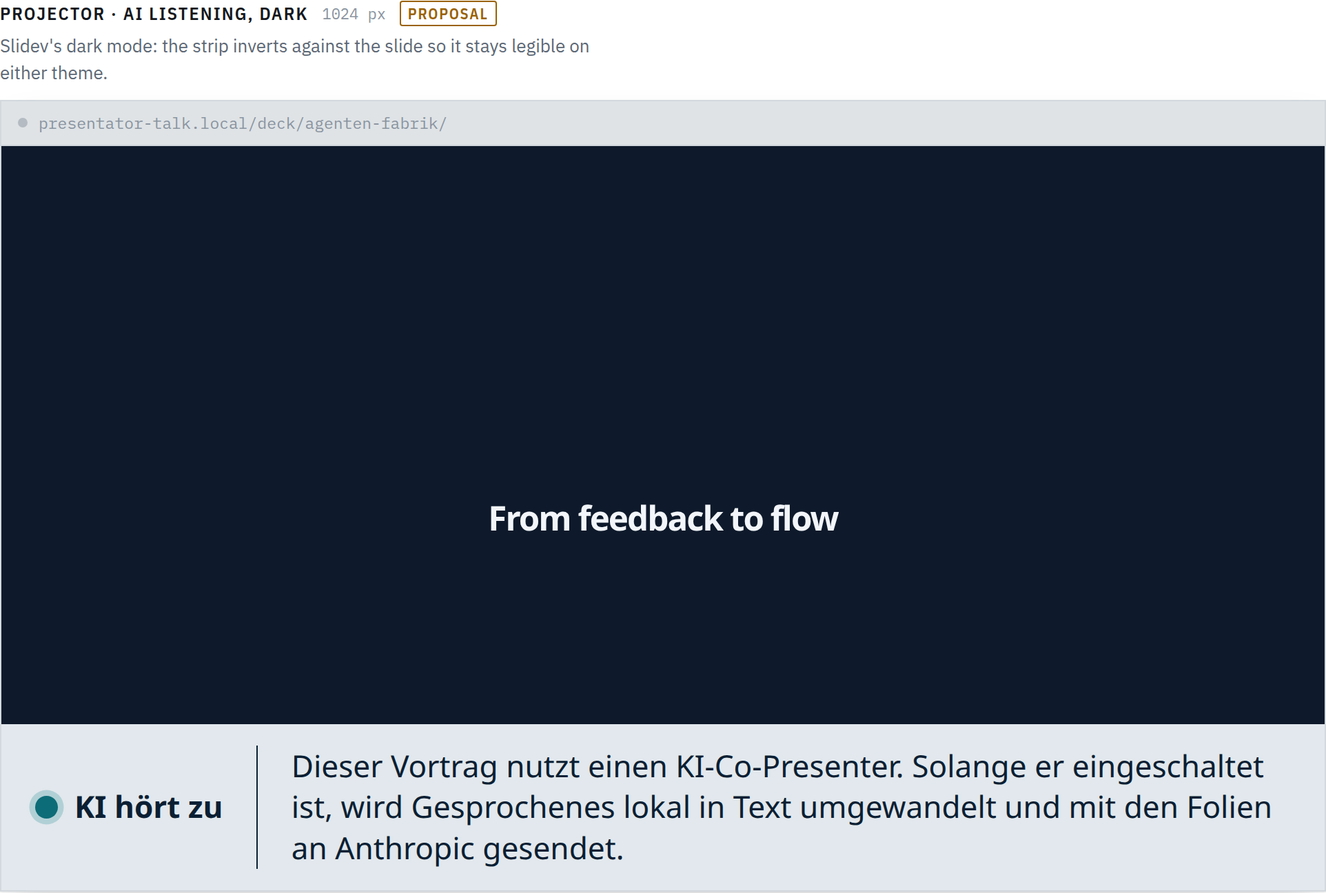
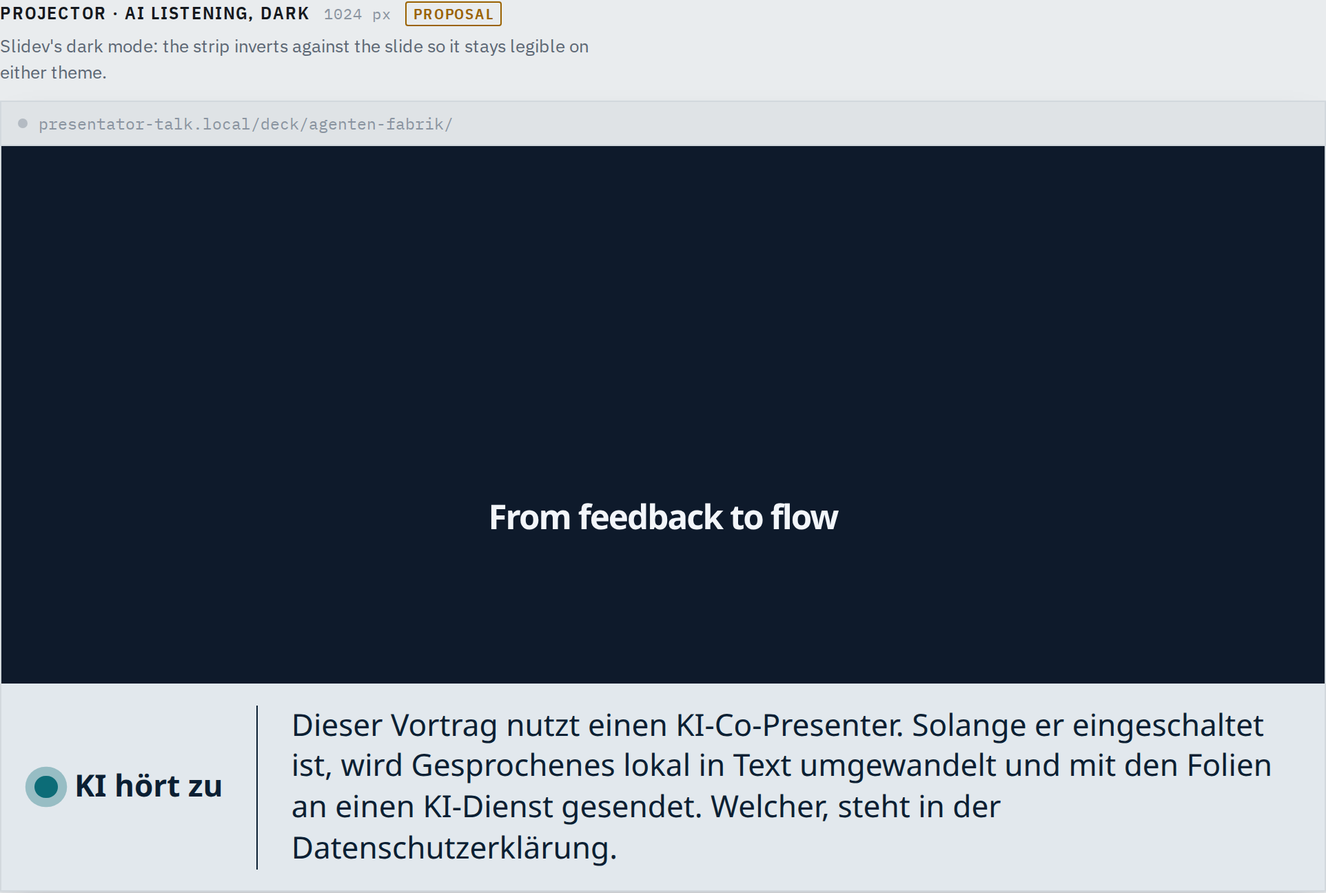
Bring the room-knows boards in line with the #293 rulings
The operator ruled #293 on 28.10.2026 (line 1 C, lines 2-5 A). Every
room-facing sentence is now the neutral E8 wording with its pointer to
the Datenschutzerklärung, the presenter's first answer begins at once,
the banner-then-pill comparison board and its CSS are gone, and one
English-deck board shows the strip in the deck's language. Captions
name the ruled option. Renders and the overview sheet are regenerated.

Serves #525.

diff --git a/docs/mockups/m0-lobby.html b/docs/mockups/m0-lobby.html
@@ -1583,9 +1583,6 @@
   .room-strip--mini { padding: 3px 6px; gap: 5px; font-size: 5px; }
   .room-strip--mini .room-strip__text { padding-left: 5px; }
   .room-strip--mini-narrow { font-size: 5.5px; }
-  .room-strip--banner { inset: 0 0 auto; flex-direction: column; align-items: flex-start; gap: .4em; padding: .9em 1.1em; font-size: 2.5cqw; }
-  .room-strip--banner .room-strip__text { padding-left: 0; border-left: 0; }
-  .room-pill { position: absolute; right: 8px; bottom: 8px; display: inline-flex; align-items: center; gap: .5em; padding: .35em .8em; border-radius: 99px; background: #0B1F33F0; color: #fff; font-size: var(--room-font); font-weight: 700; }
   .room-chart { position: absolute; inset: 30% 12% 12%; display: flex; flex-direction: column; justify-content: flex-end; gap: 6px; }
   .room-chart__bars { display: flex; flex: 1; align-items: flex-end; gap: 6%; border-bottom: 2px solid currentColor; }
   .room-chart__bars span { flex: 1; background: #3C7FB8; }
@@ -4260,11 +4257,22 @@ Cannot resolve import "./folien/03-fabric.md" from slides.md
       <figure class="board" id="room-listening">
         <figcaption class="board-cap">
           <div class="board-title">Projector · AI listening <span class="w">1024 px</span> <span class="open-mark">proposal</span></div>
-          <p class="board-note">A slim strip at the bottom of the slide: a pulsing dot (the only thing that moves) and E8's sentence word for word. The strip is a notice, not a control.</p>
+          <p class="board-note">Line 2: the deck's language (German deck). A slim strip at the bottom of the slide: a pulsing dot (the only thing that moves) and E8's sentence word for word, ending in the pointer to the Datenschutzerklärung. The strip is a notice, not a control.</p>
         </figcaption>
         <div class="frame" style="--w: 960px">
           <div class="route">presentator-talk.local/deck/agenten-fabrik/</div>
-          <div class="room-slide room-slide--light"><div class="room-slide__title">From feedback to flow</div><div class="room-strip "><span class="room-strip__state"><span class="room-strip__dot"></span>KI hört zu</span><span class="room-strip__text">Dieser Vortrag nutzt einen KI-Co-Presenter. Solange er eingeschaltet ist, wird Gesprochenes lokal in Text umgewandelt und mit den Folien an Anthropic gesendet.</span></div></div>
+          <div class="room-slide room-slide--light"><div class="room-slide__title">From feedback to flow</div><div class="room-strip "><span class="room-strip__state"><span class="room-strip__dot"></span>KI hört zu</span><span class="room-strip__text">Dieser Vortrag nutzt einen KI-Co-Presenter. Solange er eingeschaltet ist, wird Gesprochenes lokal in Text umgewandelt und mit den Folien an einen KI-Dienst gesendet. Welcher, steht in der Datenschutzerklärung.</span></div></div>
+        </div>
+      </figure>
+
+      <figure class="board" id="room-listening-english">
+        <figcaption class="board-cap">
+          <div class="board-title">Projector · English deck, AI listening <span class="w">1024 px</span> <span class="open-mark">proposal</span></div>
+          <p class="board-note">Line 2: the deck's language (English deck). The strip and its sentence follow the language of the deck, not the language of the app.</p>
+        </figcaption>
+        <div class="frame" style="--w: 960px">
+          <div class="route">presentator-talk.local/deck/agenten-fabrik/</div>
+          <div class="room-slide room-slide--light"><div class="room-slide__title">From feedback to flow</div><div class="room-strip "><span class="room-strip__state"><span class="room-strip__dot"></span>AI is listening</span><span class="room-strip__text">This talk uses an AI co-presenter. While it is on, speech is turned into text locally and sent with the slides to an AI service. Which one is named in the privacy notice.</span></div></div>
         </div>
       </figure>
 
@@ -4275,7 +4283,7 @@ Cannot resolve import "./folien/03-fabric.md" from slides.md
         </figcaption>
         <div class="frame" style="--w: 960px">
           <div class="route">presentator-talk.local/deck/agenten-fabrik/</div>
-          <div class="room-slide room-slide--light"><div class="room-slide__title">From feedback to flow</div><div class="room-strip "><span class="room-strip__state"><svg class="room-strip__glyph" viewBox="0 0 24 24" aria-hidden="true"><path d="M11 5 6 9H2v6h4l5 4V5Z"/><path d="M15.54 8.46a5 5 0 0 1 0 7.07"/><path d="M19.07 4.93a10 10 0 0 1 0 14.14"/></svg>KI antwortet</span><span class="room-strip__text">Dieser Vortrag nutzt einen KI-Co-Presenter. Solange er eingeschaltet ist, wird Gesprochenes lokal in Text umgewandelt und mit den Folien an Anthropic gesendet.</span></div></div>
+          <div class="room-slide room-slide--light"><div class="room-slide__title">From feedback to flow</div><div class="room-strip "><span class="room-strip__state"><svg class="room-strip__glyph" viewBox="0 0 24 24" aria-hidden="true"><path d="M11 5 6 9H2v6h4l5 4V5Z"/><path d="M15.54 8.46a5 5 0 0 1 0 7.07"/><path d="M19.07 4.93a10 10 0 0 1 0 14.14"/></svg>KI antwortet</span><span class="room-strip__text">Dieser Vortrag nutzt einen KI-Co-Presenter. Solange er eingeschaltet ist, wird Gesprochenes lokal in Text umgewandelt und mit den Folien an einen KI-Dienst gesendet. Welcher, steht in der Datenschutzerklärung.</span></div></div>
         </div>
       </figure>
 
@@ -4293,22 +4301,11 @@ Cannot resolve import "./folien/03-fabric.md" from slides.md
       <figure class="board" id="room-busy">
         <figcaption class="board-cap">
           <div class="board-title">Projector · busy bottom edge <span class="w">1024 px</span> <span class="open-mark">proposal</span></div>
-          <p class="board-note">A slide with a footer and a chart axis at the bottom, the strip over them: the strip covers the axis and the footer while the AI is on. The operator judges whether that cost is acceptable.</p>
+          <p class="board-note">A slide with a footer and a chart axis at the bottom, the strip over them: the strip covers the axis and the footer while the AI is on. Line 4: this cover is accepted.</p>
         </figcaption>
         <div class="frame" style="--w: 960px">
           <div class="route">presentator-talk.local/deck/agenten-fabrik/</div>
-          <div class="room-slide room-slide--light room-slide--busy"><div class="room-slide__title">From feedback to flow</div><div class="room-chart"><div class="room-chart__bars"><span style="height:38%"></span><span style="height:55%"></span><span style="height:72%"></span><span style="height:46%"></span></div><div class="room-chart__axis"><span>Q1</span><span>Q2</span><span>Q3</span><span>Q4</span></div></div><div class="room-footer"><span>Agenten-Fabrik</span><span>4 / 18</span></div><div class="room-strip "><span class="room-strip__state"><span class="room-strip__dot"></span>KI hört zu</span><span class="room-strip__text">Dieser Vortrag nutzt einen KI-Co-Presenter. Solange er eingeschaltet ist, wird Gesprochenes lokal in Text umgewandelt und mit den Folien an Anthropic gesendet.</span></div></div>
-        </div>
-      </figure>
-
-      <figure class="board" id="room-alt-banner-pill">
-        <figcaption class="board-cap">
-          <div class="board-title">Projector · alternative <span class="w">1024 px</span> <span class="open-mark">proposal</span></div>
-          <p class="board-note">For comparison with the strip (the alternative to line 4): left, a banner with the sentence until the first answer; right, a compact pill in the corner after it. The pill keeps the room's screen freer; the sentence is on screen only once.</p>
-        </figcaption>
-        <div class="frame" style="--w: 960px">
-          <div class="route">presentator-talk.local/deck/agenten-fabrik/</div>
-          <div class="room-pair"><div class="room-slide room-slide--light" style="--room-font: 9.5px"><div class="room-slide__title">From feedback to flow</div><div class="room-strip room-strip--banner"><span class="room-strip__state"><span class="room-strip__dot"></span>KI hört zu</span><span class="room-strip__text">Dieser Vortrag nutzt einen KI-Co-Presenter. Solange er eingeschaltet ist, wird Gesprochenes lokal in Text umgewandelt und mit den Folien an Anthropic gesendet.</span></div></div><div class="room-slide room-slide--light room-slide--busy" style="--room-font: 9.5px"><div class="room-slide__title">From feedback to flow</div><div class="room-chart"><div class="room-chart__bars"><span style="height:38%"></span><span style="height:55%"></span><span style="height:72%"></span><span style="height:46%"></span></div><div class="room-chart__axis"><span>Q1</span><span>Q2</span><span>Q3</span><span>Q4</span></div></div><div class="room-footer"><span>Agenten-Fabrik</span><span>4 / 18</span></div><div class="room-pill"><span class="room-strip__dot"></span>KI hört zu</div></div></div>
+          <div class="room-slide room-slide--light room-slide--busy"><div class="room-slide__title">From feedback to flow</div><div class="room-chart"><div class="room-chart__bars"><span style="height:38%"></span><span style="height:55%"></span><span style="height:72%"></span><span style="height:46%"></span></div><div class="room-chart__axis"><span>Q1</span><span>Q2</span><span>Q3</span><span>Q4</span></div></div><div class="room-footer"><span>Agenten-Fabrik</span><span>4 / 18</span></div><div class="room-strip "><span class="room-strip__state"><span class="room-strip__dot"></span>KI hört zu</span><span class="room-strip__text">Dieser Vortrag nutzt einen KI-Co-Presenter. Solange er eingeschaltet ist, wird Gesprochenes lokal in Text umgewandelt und mit den Folien an einen KI-Dienst gesendet. Welcher, steht in der Datenschutzerklärung.</span></div></div>
         </div>
       </figure>
 
@@ -4319,7 +4316,7 @@ Cannot resolve import "./folien/03-fabric.md" from slides.md
         </figcaption>
         <div class="frame" style="--w: 960px">
           <div class="route">presentator-talk.local/deck/agenten-fabrik/</div>
-          <div class="room-zoom"><div class="room-slide room-slide--light" style="--room-font: 25px"><div class="room-slide__title">From feedback to flow</div><div class="room-strip "><span class="room-strip__state"><span class="room-strip__dot"></span>KI hört zu</span><span class="room-strip__text">Dieser Vortrag nutzt einen KI-Co-Presenter. Solange er eingeschaltet ist, wird Gesprochenes lokal in Text umgewandelt und mit den Folien an Anthropic gesendet.</span></div></div></div>
+          <div class="room-zoom"><div class="room-slide room-slide--light" style="--room-font: 25px"><div class="room-slide__title">From feedback to flow</div><div class="room-strip "><span class="room-strip__state"><span class="room-strip__dot"></span>KI hört zu</span><span class="room-strip__text">Dieser Vortrag nutzt einen KI-Co-Presenter. Solange er eingeschaltet ist, wird Gesprochenes lokal in Text umgewandelt und mit den Folien an einen KI-Dienst gesendet. Welcher, steht in der Datenschutzerklärung.</span></div></div></div>
         </div>
       </figure>
 
@@ -4330,7 +4327,7 @@ Cannot resolve import "./folien/03-fabric.md" from slides.md
         </figcaption>
         <div class="frame" style="--w: 960px">
           <div class="route">presentator-talk.local/deck/agenten-fabrik/</div>
-          <div class="room-zoom"><div class="room-slide room-slide--light" style="--room-font: 25px"><div class="room-slide__title">From feedback to flow</div><div class="room-strip "><span class="room-strip__state"><svg class="room-strip__glyph" viewBox="0 0 24 24" aria-hidden="true"><path d="M11 5 6 9H2v6h4l5 4V5Z"/><path d="M15.54 8.46a5 5 0 0 1 0 7.07"/><path d="M19.07 4.93a10 10 0 0 1 0 14.14"/></svg>KI antwortet</span><span class="room-strip__text">Dieser Vortrag nutzt einen KI-Co-Presenter. Solange er eingeschaltet ist, wird Gesprochenes lokal in Text umgewandelt und mit den Folien an Anthropic gesendet.</span></div></div></div>
+          <div class="room-zoom"><div class="room-slide room-slide--light" style="--room-font: 25px"><div class="room-slide__title">From feedback to flow</div><div class="room-strip "><span class="room-strip__state"><svg class="room-strip__glyph" viewBox="0 0 24 24" aria-hidden="true"><path d="M11 5 6 9H2v6h4l5 4V5Z"/><path d="M15.54 8.46a5 5 0 0 1 0 7.07"/><path d="M19.07 4.93a10 10 0 0 1 0 14.14"/></svg>KI antwortet</span><span class="room-strip__text">Dieser Vortrag nutzt einen KI-Co-Presenter. Solange er eingeschaltet ist, wird Gesprochenes lokal in Text umgewandelt und mit den Folien an einen KI-Dienst gesendet. Welcher, steht in der Datenschutzerklärung.</span></div></div></div>
         </div>
       </figure>
 
@@ -4341,7 +4338,7 @@ Cannot resolve import "./folien/03-fabric.md" from slides.md
         </figcaption>
         <div class="frame" style="--w: 960px">
           <div class="route">presentator-talk.local/deck/agenten-fabrik/</div>
-          <div class="room-slide room-slide--dark"><div class="room-slide__title">From feedback to flow</div><div class="room-strip "><span class="room-strip__state"><span class="room-strip__dot"></span>KI hört zu</span><span class="room-strip__text">Dieser Vortrag nutzt einen KI-Co-Presenter. Solange er eingeschaltet ist, wird Gesprochenes lokal in Text umgewandelt und mit den Folien an Anthropic gesendet.</span></div></div>
+          <div class="room-slide room-slide--dark"><div class="room-slide__title">From feedback to flow</div><div class="room-strip "><span class="room-strip__state"><span class="room-strip__dot"></span>KI hört zu</span><span class="room-strip__text">Dieser Vortrag nutzt einen KI-Co-Presenter. Solange er eingeschaltet ist, wird Gesprochenes lokal in Text umgewandelt und mit den Folien an einen KI-Dienst gesendet. Welcher, steht in der Datenschutzerklärung.</span></div></div>
         </div>
       </figure>
 
@@ -4352,7 +4349,7 @@ Cannot resolve import "./folien/03-fabric.md" from slides.md
         </figcaption>
         <div class="frame" style="--w: 960px">
           <div class="route">presentator-talk.local/deck/agenten-fabrik/</div>
-          <div class="room-slide room-slide--dark"><div class="room-slide__title">From feedback to flow</div><div class="room-strip "><span class="room-strip__state"><svg class="room-strip__glyph" viewBox="0 0 24 24" aria-hidden="true"><path d="M11 5 6 9H2v6h4l5 4V5Z"/><path d="M15.54 8.46a5 5 0 0 1 0 7.07"/><path d="M19.07 4.93a10 10 0 0 1 0 14.14"/></svg>KI antwortet</span><span class="room-strip__text">Dieser Vortrag nutzt einen KI-Co-Presenter. Solange er eingeschaltet ist, wird Gesprochenes lokal in Text umgewandelt und mit den Folien an Anthropic gesendet.</span></div></div>
+          <div class="room-slide room-slide--dark"><div class="room-slide__title">From feedback to flow</div><div class="room-strip "><span class="room-strip__state"><svg class="room-strip__glyph" viewBox="0 0 24 24" aria-hidden="true"><path d="M11 5 6 9H2v6h4l5 4V5Z"/><path d="M15.54 8.46a5 5 0 0 1 0 7.07"/><path d="M19.07 4.93a10 10 0 0 1 0 14.14"/></svg>KI antwortet</span><span class="room-strip__text">Dieser Vortrag nutzt einen KI-Co-Presenter. Solange er eingeschaltet ist, wird Gesprochenes lokal in Text umgewandelt und mit den Folien an einen KI-Dienst gesendet. Welcher, steht in der Datenschutzerklärung.</span></div></div>
         </div>
       </figure>
 
@@ -4365,7 +4362,7 @@ Cannot resolve import "./folien/03-fabric.md" from slides.md
           <div class="route">presentator-talk.local/deck/agenten-fabrik/presenter/</div>
           <div class="presenter-stage">
             <div class="presenter-grid">
-              <section class="presenter-panel presenter-main"><div class="presenter-toolbar"><span>Current</span><span class="presenter-toolbar__spacer"></span><select class="presenter-select" aria-label="Presenter view"><option>Slides</option><option>Screen Mirror</option></select></div><div class="presenter-main-body"><div class="presenter-slide room-slide room-slide--light">From feedback to flow<div class="room-strip room-strip--mini"><span class="room-strip__state"><span class="room-strip__dot"></span>KI hört zu</span><span class="room-strip__text">Dieser Vortrag nutzt einen KI-Co-Presenter. Solange er eingeschaltet ist, wird Gesprochenes lokal in Text umgewandelt und mit den Folien an Anthropic gesendet.</span></div></div></div></section>
+              <section class="presenter-panel presenter-main"><div class="presenter-toolbar"><span>Current</span><span class="presenter-toolbar__spacer"></span><select class="presenter-select" aria-label="Presenter view"><option>Slides</option><option>Screen Mirror</option></select></div><div class="presenter-main-body"><div class="presenter-slide room-slide room-slide--light">From feedback to flow<div class="room-strip room-strip--mini"><span class="room-strip__state"><span class="room-strip__dot"></span>KI hört zu</span><span class="room-strip__text">Dieser Vortrag nutzt einen KI-Co-Presenter. Solange er eingeschaltet ist, wird Gesprochenes lokal in Text umgewandelt und mit den Folien an einen KI-Dienst gesendet. Welcher, steht in der Datenschutzerklärung.</span></div></div></div></section>
               <section class="presenter-panel presenter-next"><span class="presenter-kicker">Next</span><div class="presenter-preview">Make the handoff visible</div></section>
               <section class="presenter-panel presenter-note"><span class="presenter-kicker">Notes</span><p>Ask for one example before moving to the next step.</p></section>
               <div class="presenter-panel presenter-bottom"><span class="presenter-controls"><span class="presenter-control"><svg class="icon" width="18" height="18" aria-hidden="true"><use href="#icon-chevron-down"></use></svg></span><span class="presenter-control" aria-hidden="true">&larr;</span><span class="presenter-control" aria-hidden="true">&rarr;</span><span class="presenter-control"><svg class="icon" width="18" height="18" aria-hidden="true"><use href="#icon-layout-grid"></use></svg></span><span class="presenter-control"><svg class="icon" width="18" height="18" aria-hidden="true"><use href="#icon-monitor"></use></svg></span><span class="presenter-control"><svg class="icon" width="18" height="18" aria-hidden="true"><use href="#icon-play"></use></svg></span><span class="presenter-control" aria-hidden="true">&#9998;</span><span class="presenter-control"><svg class="icon" width="18" height="18" aria-hidden="true"><use href="#icon-settings"></use></svg></span><span class="presenter-control" aria-hidden="true">&#9676;</span><a class="presenter-control presenter-control--home" href="/" aria-label="Home" title="Home"><svg class="icon" width="18" height="18" aria-hidden="true"><path d="m3 10 9-7 9 7v10a1 1 0 0 1-1 1h-5v-6H9v6H4a1 1 0 0 1-1-1Z" fill="none" stroke="currentColor" stroke-width="1.75" stroke-linejoin="round"></path></svg><span>Home</span></a><span class="copresenter-toolbar"><span class="copresenter-panel"><span class="copresenter-panel__state"><span class="copresenter-panel__dot"></span>Listening</span><span class="copresenter-panel__heard">Where does the handoff slow down?</span></span><button class="presenter-control presenter-control--ai presenter-control--ai-active" type="button" aria-pressed="true" title="CoPresenter"><svg class="icon" width="18" height="18" aria-hidden="true"><path d="M12 3a3 3 0 0 0-3 3v6a3 3 0 0 0 6 0V6a3 3 0 0 0-3-3Zm-6 8a6 6 0 0 0 12 0M12 17v4M8 21h8" fill="none" stroke="currentColor" stroke-width="1.75" stroke-linecap="round"></path></svg><span>AI</span></button></span><span class="presenter-count">4 / 18</span></span></div>
@@ -4375,17 +4372,17 @@ Cannot resolve import "./folien/03-fabric.md" from slides.md
       </figure>
       <figure class="board" id="room-presenter-answering">
         <figcaption class="board-cap">
-          <div class="board-title">Presenter · first answer <span class="w">1024 px</span> <span class="open-mark">proposal</span></div>
-          <p class="board-note">When the AI answers, the strip shows the speak glyph, and the first answer's panel line begins with „Hier spricht der KI-Co-Presenter.“ (line 1). The presenter's own controls stay as today (AI).</p>
+          <div class="board-title">Presenter · AI answering <span class="w">1024 px</span> <span class="open-mark">proposal</span></div>
+          <p class="board-note">When the AI answers, the strip shows the speak glyph, and the answer begins at once, with no introduction (line 1). The presenter's own controls stay as today (AI).</p>
         </figcaption>
         <div class="frame" style="--w: 960px">
           <div class="route">presentator-talk.local/deck/agenten-fabrik/presenter/</div>
           <div class="presenter-stage">
             <div class="presenter-grid">
-              <section class="presenter-panel presenter-main"><div class="presenter-toolbar"><span>Current</span><span class="presenter-toolbar__spacer"></span><select class="presenter-select" aria-label="Presenter view"><option>Slides</option><option>Screen Mirror</option></select></div><div class="presenter-main-body"><div class="presenter-slide room-slide room-slide--light">From feedback to flow<div class="room-strip room-strip--mini"><span class="room-strip__state"><svg class="room-strip__glyph" viewBox="0 0 24 24" aria-hidden="true"><path d="M11 5 6 9H2v6h4l5 4V5Z"/><path d="M15.54 8.46a5 5 0 0 1 0 7.07"/><path d="M19.07 4.93a10 10 0 0 1 0 14.14"/></svg>KI antwortet</span><span class="room-strip__text">Dieser Vortrag nutzt einen KI-Co-Presenter. Solange er eingeschaltet ist, wird Gesprochenes lokal in Text umgewandelt und mit den Folien an Anthropic gesendet.</span></div></div></div></section>
+              <section class="presenter-panel presenter-main"><div class="presenter-toolbar"><span>Current</span><span class="presenter-toolbar__spacer"></span><select class="presenter-select" aria-label="Presenter view"><option>Slides</option><option>Screen Mirror</option></select></div><div class="presenter-main-body"><div class="presenter-slide room-slide room-slide--light">From feedback to flow<div class="room-strip room-strip--mini"><span class="room-strip__state"><svg class="room-strip__glyph" viewBox="0 0 24 24" aria-hidden="true"><path d="M11 5 6 9H2v6h4l5 4V5Z"/><path d="M15.54 8.46a5 5 0 0 1 0 7.07"/><path d="M19.07 4.93a10 10 0 0 1 0 14.14"/></svg>KI antwortet</span><span class="room-strip__text">Dieser Vortrag nutzt einen KI-Co-Presenter. Solange er eingeschaltet ist, wird Gesprochenes lokal in Text umgewandelt und mit den Folien an einen KI-Dienst gesendet. Welcher, steht in der Datenschutzerklärung.</span></div></div></div></section>
               <section class="presenter-panel presenter-next"><span class="presenter-kicker">Next</span><div class="presenter-preview">Make the handoff visible</div></section>
               <section class="presenter-panel presenter-note"><span class="presenter-kicker">Notes</span><p>Ask for one example before moving to the next step.</p></section>
-              <div class="presenter-panel presenter-bottom"><span class="presenter-controls"><span class="presenter-control"><svg class="icon" width="18" height="18" aria-hidden="true"><use href="#icon-chevron-down"></use></svg></span><span class="presenter-control" aria-hidden="true">&larr;</span><span class="presenter-control" aria-hidden="true">&rarr;</span><span class="presenter-control"><svg class="icon" width="18" height="18" aria-hidden="true"><use href="#icon-layout-grid"></use></svg></span><span class="presenter-control"><svg class="icon" width="18" height="18" aria-hidden="true"><use href="#icon-monitor"></use></svg></span><span class="presenter-control"><svg class="icon" width="18" height="18" aria-hidden="true"><use href="#icon-play"></use></svg></span><span class="presenter-control" aria-hidden="true">&#9998;</span><span class="presenter-control"><svg class="icon" width="18" height="18" aria-hidden="true"><use href="#icon-settings"></use></svg></span><span class="presenter-control" aria-hidden="true">&#9676;</span><a class="presenter-control presenter-control--home" href="/" aria-label="Home" title="Home"><svg class="icon" width="18" height="18" aria-hidden="true"><path d="m3 10 9-7 9 7v10a1 1 0 0 1-1 1h-5v-6H9v6H4a1 1 0 0 1-1-1Z" fill="none" stroke="currentColor" stroke-width="1.75" stroke-linejoin="round"></path></svg><span>Home</span></a><span class="copresenter-toolbar"><span class="copresenter-panel"><span class="copresenter-panel__state"><span class="copresenter-panel__dot"></span>Answering</span><span class="copresenter-panel__heard">Where does the handoff slow down?</span><span class="copresenter-panel__answer">Hier spricht der KI-Co-Presenter. Die Übergabe bremst bei der Freigabe.</span></span><button class="presenter-control presenter-control--ai presenter-control--ai-active" type="button" aria-pressed="true" title="CoPresenter"><svg class="icon" width="18" height="18" aria-hidden="true"><path d="M12 3a3 3 0 0 0-3 3v6a3 3 0 0 0 6 0V6a3 3 0 0 0-3-3Zm-6 8a6 6 0 0 0 12 0M12 17v4M8 21h8" fill="none" stroke="currentColor" stroke-width="1.75" stroke-linecap="round"></path></svg><span>AI</span></button></span><span class="presenter-count">4 / 18</span></span></div>
+              <div class="presenter-panel presenter-bottom"><span class="presenter-controls"><span class="presenter-control"><svg class="icon" width="18" height="18" aria-hidden="true"><use href="#icon-chevron-down"></use></svg></span><span class="presenter-control" aria-hidden="true">&larr;</span><span class="presenter-control" aria-hidden="true">&rarr;</span><span class="presenter-control"><svg class="icon" width="18" height="18" aria-hidden="true"><use href="#icon-layout-grid"></use></svg></span><span class="presenter-control"><svg class="icon" width="18" height="18" aria-hidden="true"><use href="#icon-monitor"></use></svg></span><span class="presenter-control"><svg class="icon" width="18" height="18" aria-hidden="true"><use href="#icon-play"></use></svg></span><span class="presenter-control" aria-hidden="true">&#9998;</span><span class="presenter-control"><svg class="icon" width="18" height="18" aria-hidden="true"><use href="#icon-settings"></use></svg></span><span class="presenter-control" aria-hidden="true">&#9676;</span><a class="presenter-control presenter-control--home" href="/" aria-label="Home" title="Home"><svg class="icon" width="18" height="18" aria-hidden="true"><path d="m3 10 9-7 9 7v10a1 1 0 0 1-1 1h-5v-6H9v6H4a1 1 0 0 1-1-1Z" fill="none" stroke="currentColor" stroke-width="1.75" stroke-linejoin="round"></path></svg><span>Home</span></a><span class="copresenter-toolbar"><span class="copresenter-panel"><span class="copresenter-panel__state"><span class="copresenter-panel__dot"></span>Answering</span><span class="copresenter-panel__heard">Where does the handoff slow down?</span><span class="copresenter-panel__answer">Die Übergabe bremst bei der Freigabe.</span></span><button class="presenter-control presenter-control--ai presenter-control--ai-active" type="button" aria-pressed="true" title="CoPresenter"><svg class="icon" width="18" height="18" aria-hidden="true"><path d="M12 3a3 3 0 0 0-3 3v6a3 3 0 0 0 6 0V6a3 3 0 0 0-3-3Zm-6 8a6 6 0 0 0 12 0M12 17v4M8 21h8" fill="none" stroke="currentColor" stroke-width="1.75" stroke-linecap="round"></path></svg><span>AI</span></button></span><span class="presenter-count">4 / 18</span></span></div>
             </div>
           </div>
         </div>
@@ -4399,7 +4396,7 @@ Cannot resolve import "./folien/03-fabric.md" from slides.md
           <div class="route">presentator-talk.local/deck/customer-feedback-across-every-market/presenter/</div>
           <div class="presenter-stage">
             <div class="presenter-grid">
-              <section class="presenter-panel presenter-main"><div class="presenter-toolbar"><span>Current</span><span class="presenter-toolbar__spacer"></span><select class="presenter-select" aria-label="Presenter view"><option>Slides</option><option>Screen Mirror</option></select></div><div class="presenter-main-body"><div class="presenter-slide room-slide room-slide--light">Listen for the pattern<div class="room-strip room-strip--mini room-strip--mini-narrow"><span class="room-strip__state"><span class="room-strip__dot"></span>KI hört zu</span><span class="room-strip__text">Dieser Vortrag nutzt einen KI-Co-Presenter. Solange er eingeschaltet ist, wird Gesprochenes lokal in Text umgewandelt und mit den Folien an Anthropic gesendet.</span></div></div></div></section>
+              <section class="presenter-panel presenter-main"><div class="presenter-toolbar"><span>Current</span><span class="presenter-toolbar__spacer"></span><select class="presenter-select" aria-label="Presenter view"><option>Slides</option><option>Screen Mirror</option></select></div><div class="presenter-main-body"><div class="presenter-slide room-slide room-slide--light">Listen for the pattern<div class="room-strip room-strip--mini room-strip--mini-narrow"><span class="room-strip__state"><span class="room-strip__dot"></span>KI hört zu</span><span class="room-strip__text">Dieser Vortrag nutzt einen KI-Co-Presenter. Solange er eingeschaltet ist, wird Gesprochenes lokal in Text umgewandelt und mit den Folien an einen KI-Dienst gesendet. Welcher, steht in der Datenschutzerklärung.</span></div></div></div></section>
               <section class="presenter-panel presenter-next"><span class="presenter-kicker">Next</span><div class="presenter-preview">Name the choice</div></section>
               <section class="presenter-panel presenter-note"><span class="presenter-kicker">Notes</span><p>Pause after the question.</p></section>
               <div class="presenter-panel presenter-bottom"><span class="presenter-controls"><span class="presenter-control"><svg class="icon" width="18" height="18" aria-hidden="true"><use href="#icon-chevron-down"></use></svg></span><span class="presenter-control" aria-hidden="true">&larr;</span><span class="presenter-control" aria-hidden="true">&rarr;</span><span class="presenter-control"><svg class="icon" width="18" height="18" aria-hidden="true"><use href="#icon-layout-grid"></use></svg></span><span class="presenter-control"><svg class="icon" width="18" height="18" aria-hidden="true"><use href="#icon-monitor"></use></svg></span><span class="presenter-control"><svg class="icon" width="18" height="18" aria-hidden="true"><use href="#icon-play"></use></svg></span><span class="presenter-control" aria-hidden="true">&#9998;</span><span class="presenter-control"><svg class="icon" width="18" height="18" aria-hidden="true"><use href="#icon-settings"></use></svg></span><span class="presenter-control" aria-hidden="true">&#9676;</span><a class="presenter-control presenter-control--home presenter-control--focused" href="/" aria-label="Home" title="Home"><svg class="icon" width="18" height="18" aria-hidden="true"><path d="m3 10 9-7 9 7v10a1 1 0 0 1-1 1h-5v-6H9v6H4a1 1 0 0 1-1-1Z" fill="none" stroke="currentColor" stroke-width="1.75" stroke-linejoin="round"></path></svg><span>Home</span></a><span class="copresenter-toolbar"><span class="copresenter-panel"><span class="copresenter-panel__state"><span class="copresenter-panel__dot"></span>Listening</span><span class="copresenter-panel__heard">Where does the handoff slow down?</span></span><button class="presenter-control presenter-control--ai presenter-control--ai-active" type="button" aria-pressed="true" title="CoPresenter"><svg class="icon" width="18" height="18" aria-hidden="true"><path d="M12 3a3 3 0 0 0-3 3v6a3 3 0 0 0 6 0V6a3 3 0 0 0-3-3Zm-6 8a6 6 0 0 0 12 0M12 17v4M8 21h8" fill="none" stroke="currentColor" stroke-width="1.75" stroke-linecap="round"></path></svg><span>AI</span></button></span><span class="presenter-count">4 / 18</span></span></div>
@@ -4409,17 +4406,17 @@ Cannot resolve import "./folien/03-fabric.md" from slides.md
       </figure>
       <figure class="board" id="room-presenter-answering-narrow">
         <figcaption class="board-cap">
-          <div class="board-title">Presenter · first answer <span class="w">390 px</span> <span class="open-mark">proposal</span></div>
-          <p class="board-note">When the AI answers, the strip shows the speak glyph, and the first answer's panel line begins with „Hier spricht der KI-Co-Presenter.“ (line 1). The presenter's own controls stay as today (AI).</p>
+          <div class="board-title">Presenter · AI answering <span class="w">390 px</span> <span class="open-mark">proposal</span></div>
+          <p class="board-note">When the AI answers, the strip shows the speak glyph, and the answer begins at once, with no introduction (line 1). The presenter's own controls stay as today (AI).</p>
         </figcaption>
         <div class="frame" style="--w: 390px">
           <div class="route">presentator-talk.local/deck/customer-feedback-across-every-market/presenter/</div>
           <div class="presenter-stage">
             <div class="presenter-grid">
-              <section class="presenter-panel presenter-main"><div class="presenter-toolbar"><span>Current</span><span class="presenter-toolbar__spacer"></span><select class="presenter-select" aria-label="Presenter view"><option>Slides</option><option>Screen Mirror</option></select></div><div class="presenter-main-body"><div class="presenter-slide room-slide room-slide--light">Listen for the pattern<div class="room-strip room-strip--mini room-strip--mini-narrow"><span class="room-strip__state"><svg class="room-strip__glyph" viewBox="0 0 24 24" aria-hidden="true"><path d="M11 5 6 9H2v6h4l5 4V5Z"/><path d="M15.54 8.46a5 5 0 0 1 0 7.07"/><path d="M19.07 4.93a10 10 0 0 1 0 14.14"/></svg>KI antwortet</span><span class="room-strip__text">Dieser Vortrag nutzt einen KI-Co-Presenter. Solange er eingeschaltet ist, wird Gesprochenes lokal in Text umgewandelt und mit den Folien an Anthropic gesendet.</span></div></div></div></section>
+              <section class="presenter-panel presenter-main"><div class="presenter-toolbar"><span>Current</span><span class="presenter-toolbar__spacer"></span><select class="presenter-select" aria-label="Presenter view"><option>Slides</option><option>Screen Mirror</option></select></div><div class="presenter-main-body"><div class="presenter-slide room-slide room-slide--light">Listen for the pattern<div class="room-strip room-strip--mini room-strip--mini-narrow"><span class="room-strip__state"><svg class="room-strip__glyph" viewBox="0 0 24 24" aria-hidden="true"><path d="M11 5 6 9H2v6h4l5 4V5Z"/><path d="M15.54 8.46a5 5 0 0 1 0 7.07"/><path d="M19.07 4.93a10 10 0 0 1 0 14.14"/></svg>KI antwortet</span><span class="room-strip__text">Dieser Vortrag nutzt einen KI-Co-Presenter. Solange er eingeschaltet ist, wird Gesprochenes lokal in Text umgewandelt und mit den Folien an einen KI-Dienst gesendet. Welcher, steht in der Datenschutzerklärung.</span></div></div></div></section>
               <section class="presenter-panel presenter-next"><span class="presenter-kicker">Next</span><div class="presenter-preview">Name the choice</div></section>
               <section class="presenter-panel presenter-note"><span class="presenter-kicker">Notes</span><p>Pause after the question.</p></section>
-              <div class="presenter-panel presenter-bottom"><span class="presenter-controls"><span class="presenter-control"><svg class="icon" width="18" height="18" aria-hidden="true"><use href="#icon-chevron-down"></use></svg></span><span class="presenter-control" aria-hidden="true">&larr;</span><span class="presenter-control" aria-hidden="true">&rarr;</span><span class="presenter-control"><svg class="icon" width="18" height="18" aria-hidden="true"><use href="#icon-layout-grid"></use></svg></span><span class="presenter-control"><svg class="icon" width="18" height="18" aria-hidden="true"><use href="#icon-monitor"></use></svg></span><span class="presenter-control"><svg class="icon" width="18" height="18" aria-hidden="true"><use href="#icon-play"></use></svg></span><span class="presenter-control" aria-hidden="true">&#9998;</span><span class="presenter-control"><svg class="icon" width="18" height="18" aria-hidden="true"><use href="#icon-settings"></use></svg></span><span class="presenter-control" aria-hidden="true">&#9676;</span><a class="presenter-control presenter-control--home presenter-control--focused" href="/" aria-label="Home" title="Home"><svg class="icon" width="18" height="18" aria-hidden="true"><path d="m3 10 9-7 9 7v10a1 1 0 0 1-1 1h-5v-6H9v6H4a1 1 0 0 1-1-1Z" fill="none" stroke="currentColor" stroke-width="1.75" stroke-linejoin="round"></path></svg><span>Home</span></a><span class="copresenter-toolbar"><span class="copresenter-panel"><span class="copresenter-panel__state"><span class="copresenter-panel__dot"></span>Answering</span><span class="copresenter-panel__heard">Where does the handoff slow down?</span><span class="copresenter-panel__answer">Hier spricht der KI-Co-Presenter. Die Übergabe bremst bei der Freigabe.</span></span><button class="presenter-control presenter-control--ai presenter-control--ai-active" type="button" aria-pressed="true" title="CoPresenter"><svg class="icon" width="18" height="18" aria-hidden="true"><path d="M12 3a3 3 0 0 0-3 3v6a3 3 0 0 0 6 0V6a3 3 0 0 0-3-3Zm-6 8a6 6 0 0 0 12 0M12 17v4M8 21h8" fill="none" stroke="currentColor" stroke-width="1.75" stroke-linecap="round"></path></svg><span>AI</span></button></span><span class="presenter-count">4 / 18</span></span></div>
+              <div class="presenter-panel presenter-bottom"><span class="presenter-controls"><span class="presenter-control"><svg class="icon" width="18" height="18" aria-hidden="true"><use href="#icon-chevron-down"></use></svg></span><span class="presenter-control" aria-hidden="true">&larr;</span><span class="presenter-control" aria-hidden="true">&rarr;</span><span class="presenter-control"><svg class="icon" width="18" height="18" aria-hidden="true"><use href="#icon-layout-grid"></use></svg></span><span class="presenter-control"><svg class="icon" width="18" height="18" aria-hidden="true"><use href="#icon-monitor"></use></svg></span><span class="presenter-control"><svg class="icon" width="18" height="18" aria-hidden="true"><use href="#icon-play"></use></svg></span><span class="presenter-control" aria-hidden="true">&#9998;</span><span class="presenter-control"><svg class="icon" width="18" height="18" aria-hidden="true"><use href="#icon-settings"></use></svg></span><span class="presenter-control" aria-hidden="true">&#9676;</span><a class="presenter-control presenter-control--home presenter-control--focused" href="/" aria-label="Home" title="Home"><svg class="icon" width="18" height="18" aria-hidden="true"><path d="m3 10 9-7 9 7v10a1 1 0 0 1-1 1h-5v-6H9v6H4a1 1 0 0 1-1-1Z" fill="none" stroke="currentColor" stroke-width="1.75" stroke-linejoin="round"></path></svg><span>Home</span></a><span class="copresenter-toolbar"><span class="copresenter-panel"><span class="copresenter-panel__state"><span class="copresenter-panel__dot"></span>Answering</span><span class="copresenter-panel__heard">Where does the handoff slow down?</span><span class="copresenter-panel__answer">Die Übergabe bremst bei der Freigabe.</span></span><button class="presenter-control presenter-control--ai presenter-control--ai-active" type="button" aria-pressed="true" title="CoPresenter"><svg class="icon" width="18" height="18" aria-hidden="true"><path d="M12 3a3 3 0 0 0-3 3v6a3 3 0 0 0 6 0V6a3 3 0 0 0-3-3Zm-6 8a6 6 0 0 0 12 0M12 17v4M8 21h8" fill="none" stroke="currentColor" stroke-width="1.75" stroke-linecap="round"></path></svg><span>AI</span></button></span><span class="presenter-count">4 / 18</span></span></div>
             </div>
           </div>
         </div>

diff --git a/docs/mockups/README.md b/docs/mockups/README.md
@@ -133,32 +133,36 @@ from projector view.
 | `m0-lobby/presenter-home-active-narrow.png` | Presenter, AI active — 390 px |
 | `m0-lobby/projector-return-absent.png` | Projector — Home absent, 1024 px |
 
-### The room knows (proposal · issue #525, #293 S12)
+### The room knows (issue #525, #293 S12)
 
 The notice that the room hears an AI. The projector shows a slim strip at the
 bottom of the slide only while the AI is on and hearing, and nothing otherwise;
-the strip carries the sentence of #293's E8 and is never a control. The presenter
-window shows the same strip in its current-slide preview, and its first
-answer opens with „Hier spricht der KI-Co-Presenter.“ The Lines column names the expectation lines of #293 S12 each board shows,
-not only those its caption cites (1 Vorstellung, 2 Sprache im Raum, 3 Ruhe auf
-der Leinwand, 4 Form des Hinweises); the Datenschutz boards are untouched.
+the strip carries the sentence of #293's E8 (ending in the pointer to the
+Datenschutzerklärung) in the deck's language and is never a control. The
+presenter window shows the same strip in its current-slide preview; the AI's
+first answer begins at once, with no introduction. The boards show the rulings
+of 28.10.2026 on #293: line 1 C (no introduction), 2 A (the deck's language),
+3 A (only while listening or answering), 4 A (the strip; covering the footer
+and axes is accepted), 5 A (the neutral sentence). The Lines column names the
+#293 S12 lines each board shows, not only those its caption cites; the
+Datenschutz boards are untouched.
 
 | PNG | Caption | Lines |
 |---|---|---|
 | `m0-lobby/room-off.png` | Projector, AI off: no label, 1024 px | 3 |
-| `m0-lobby/room-listening.png` | Projector, AI listening: strip with E8's sentence, 1024 px | 2, 4 |
+| `m0-lobby/room-listening.png` | Projector, AI listening: strip with E8's sentence, 1024 px | 2, 4, 5 |
+| `m0-lobby/room-listening-english.png` | Projector, English deck listening: strip and sentence in English, 1024 px | 2 |
 | `m0-lobby/room-answering.png` | Projector, AI answering: strip with the speak glyph, 1024 px | 2, 4 |
 | `m0-lobby/room-not-hearing.png` | Projector, AI on but not hearing: no strip, presenter window shows the failure, 1024 px | 3 |
 | `m0-lobby/room-busy.png` | Projector, strip over a busy bottom edge, 1024 px | 4 |
-| `m0-lobby/room-alt-banner-pill.png` | Alternative to the strip: banner until the first answer, then a corner pill, 1024 px | alternative to 4 |
 | `m0-lobby/room-listening-1920.png` | Projector, AI listening, 1920 px (shown at half size) | 2, 4 |
 | `m0-lobby/room-answering-1920.png` | Projector, AI answering, 1920 px (shown at half size) | 2, 4 |
 | `m0-lobby/room-listening-dark.png` | Projector, AI listening, dark theme, 1024 px | 2, 4 |
 | `m0-lobby/room-answering-dark.png` | Projector, AI answering, dark theme, 1024 px | 2, 4 |
 | `m0-lobby/room-presenter-listening.png` | Presenter, AI listening: the preview shows the strip, 1024 px | 2, 4 |
-| `m0-lobby/room-presenter-answering.png` | Presenter, first answer opens with the intro sentence, 1024 px | 1, 2 |
+| `m0-lobby/room-presenter-answering.png` | Presenter, AI answering: the answer begins at once, 1024 px | 1, 2 |
 | `m0-lobby/room-presenter-listening-narrow.png` | Presenter, AI listening, 390 px | 2, 4 |
-| `m0-lobby/room-presenter-answering-narrow.png` | Presenter, first answer, 390 px | 1, 2 |
+| `m0-lobby/room-presenter-answering-narrow.png` | Presenter, AI answering, 390 px | 1, 2 |
 
 ### Rechtliches (#196)
 
